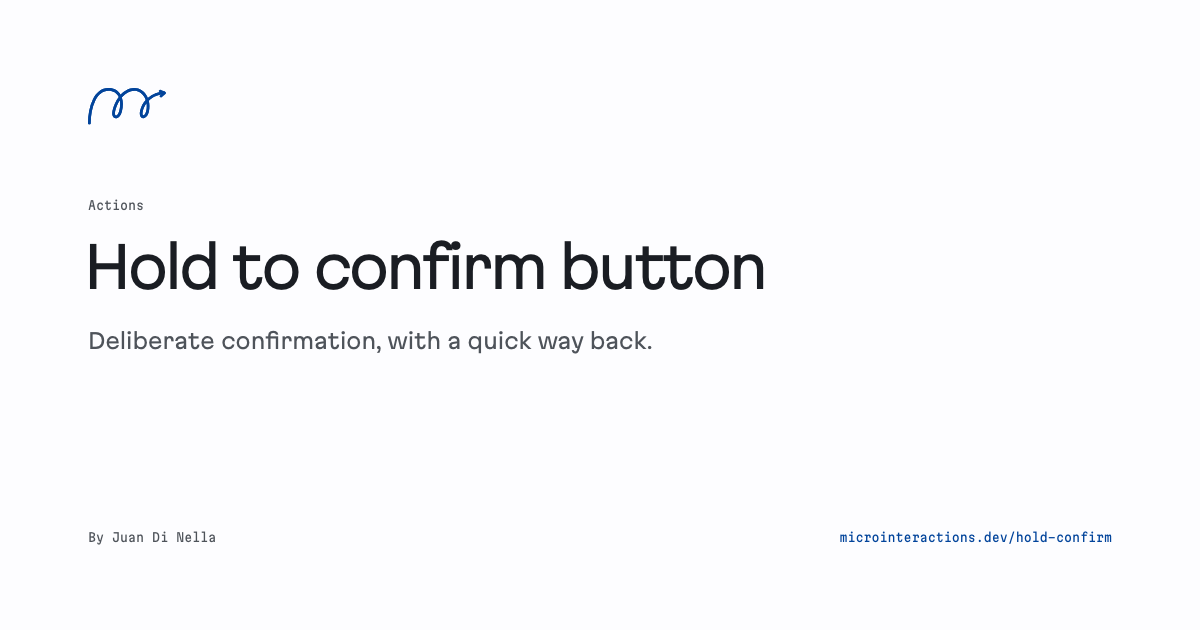
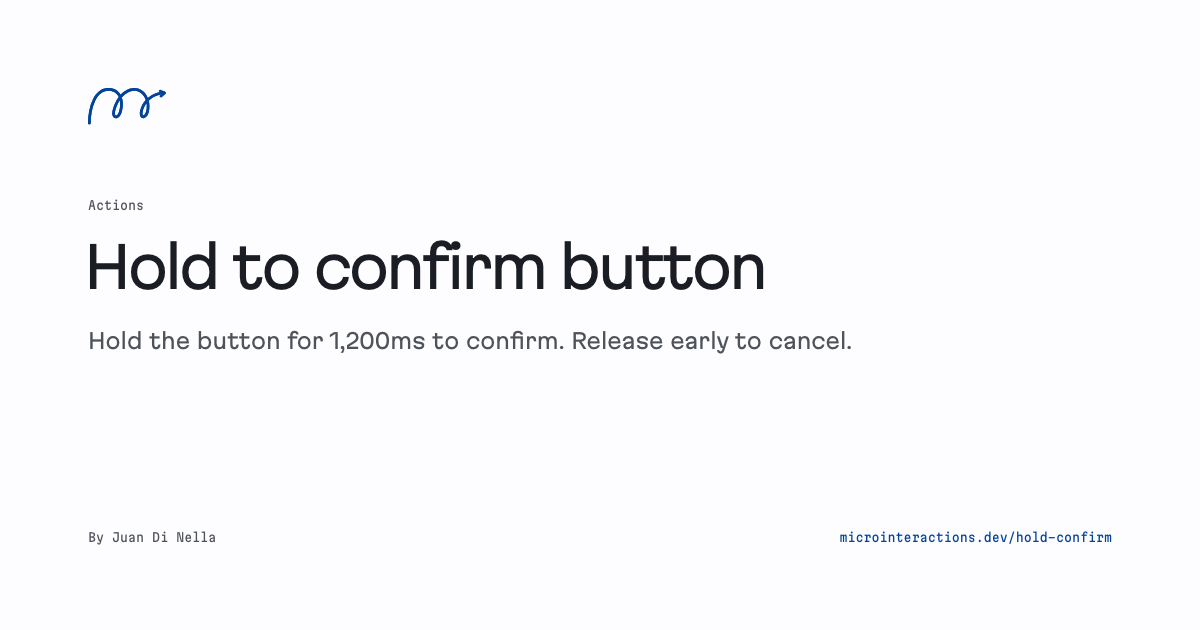
fix: expose shadcn installs in machine-readable docs
Keep registry installation discoverable alongside study source and clarify collection and hold-confirm summaries.

Changed region(s): [[0.0617, 0.5127, 0.7092, 0.573]]

diff --git a/tests/production.spec.ts b/tests/production.spec.ts
@@ -1,6 +1,8 @@
 import { expect, test } from '@playwright/test';
 import { execFileSync } from 'node:child_process';
 import { existsSync } from 'node:fs';
+import { collectionDescription } from '../src/data/collection';
+import { repository } from '../src/data/repository';
 import { specimens } from '../src/data/specimens';
 
 test('source formats and languages work without JavaScript', async ({ browser }) => {
@@ -157,6 +159,19 @@ test('Markdown content negotiation and complete Tailwind exports', () => {
   console.log(execFileSync(process.execPath, ['scripts/check-markdown.mjs', 'http://127.0.0.1:8791'], { encoding: 'utf8' }));
 });
 
+test('collection and hold summaries describe the behavior without JavaScript', async ({ browser, request }) => {
+  const context = await browser.newContext({ javaScriptEnabled: false });
+  const page = await context.newPage();
+  await page.goto('http://127.0.0.1:8791/');
+  await expect(page.locator('.intro .description')).toHaveText(`${collectionDescription} The site is open source on GitHub.`);
+  const markdown = await (await request.get('/markdown/index.md')).text();
+  expect(markdown).toContain(collectionDescription);
+  expect(markdown).toContain(`[on GitHub](${repository.url})`);
+  await page.goto('http://127.0.0.1:8791/hold-confirm/');
+  await expect(page.locator('.study-header .summary')).toHaveText('Hold the button for 1,200ms to confirm. Release early to cancel.');
+  await context.close();
+});
+
 test('content routes expose valid social images', async ({ page, request }) => {
   const covers: Record<string, string> = { '/': '/social-preview.png' };
   for (const id of ['text-swap', 'chevron-morph', 'hold-confirm', 'edge-aware-tooltip', 'plucked-underline', 'gooey-radio-group', 'drag-select', 'resize-handle', 'tab-indicator', 'worm-dots']) covers[`/${id}/`] = `/social/${id}.png`;
@@ -278,6 +293,30 @@ test('shadcn registry serves the index and installable items', async ({ request 
     expect(element.files[1].content).not.toContain('DOMContentLoaded');
   }
   expect(Object.keys((await (await request.get('/r/worm-dots.json')).json()).css)).toContain('@property --wd-dot');
+});
+
+test('agent documents expose the registry and every React install command', async ({ request }) => {
+  const { items } = await (await request.get('/r/registry.json')).json();
+  const registryUrl = 'https://microinteractions.dev/r/registry.json';
+  const llms = await (await request.get('/llms.txt')).text();
+  expect(llms).toContain(collectionDescription);
+  for (const path of ['/markdown/index.md', '/llms.txt', '/api.md', '/.well-known/agent-skills/microinteractions/SKILL.md']) {
+    const response = await request.get(path);
+    expect(response.status(), path).toBe(200);
+    expect(await response.text(), path).toContain(registryUrl);
+  }
+  await Promise.all(items.map(async ({ name }: { name: string }) => {
+    const url = `https://microinteractions.dev/r/${name}.json`;
+    expect(llms).toContain(`[React registry item](${url})`);
+    const fixed = await request.get(`/markdown/${name}.md`);
+    const negotiated = await request.get(`/${name}/`, { headers: { Accept: 'text/markdown' } });
+    expect(fixed.status(), name).toBe(200);
+    expect(negotiated.status(), name).toBe(200);
+    const markdown = await fixed.text();
+    expect(markdown, name).toContain(`## React component\n\nInstall the React component`);
+    expect(markdown, name).toContain(`\`\`\`sh\nnpx shadcn@latest add ${url}\n\`\`\``);
+    expect(await negotiated.text(), name).toBe(markdown);
+  }));
 });
 
 test('WebMCP tools list, read, and open studies', async ({ page }) => {

diff --git a/src/pages/markdown/[slug].md.ts b/src/pages/markdown/[slug].md.ts
@@ -1,8 +1,11 @@
 import type { APIRoute, GetStaticPaths } from 'astro';
 import { getCollection } from 'astro:content';
 import { author } from '../../data/author';
+import { collectionDescription } from '../../data/collection';
 import { previews } from '../../data/previews';
 import { buildPrompt } from '../../data/prompt';
+import { registryItems } from '../../data/registry';
+import { repository } from '../../data/repository';
 import { sourceFiles, tailwindSetupNote, tailwindSourceFiles } from '../../data/source';
 import { durationLabel, specimens } from '../../data/specimens';
 
@@ -18,11 +21,13 @@ function codeBlocks(files: { label: string; lang: string; code: string }[]) {
 }
 
 export const getStaticPaths = (async () => {
+  const site = import.meta.env.SITE;
   const studies = await getCollection('studies');
   const index = [
     '# Microinteractions',
-    'A collection of small UI experiments. I built these to explore how timing changes the way an interaction feels. Each experiment includes notes and source code.',
+    `${collectionDescription} The site is open source [on GitHub](${repository.url}).`,
     `A project by [${author.name}](${author.url}).`,
+    `For React projects, each study's Markdown includes its shadcn install command. [Browse the registry](${new URL('/r/registry.json', site).href}).`,
     ...specimens.map((specimen) => `## [${specimen.title}](/${specimen.id}/)\n\n${specimen.summary}\n\nCategory: ${specimen.category}. Trigger: ${specimen.triggerLabel}. Duration: ${durationLabel(specimen)}.`),
   ].join('\n\n');
 
@@ -32,6 +37,7 @@ export const getStaticPaths = (async () => {
       const study = studies.find((entry) => entry.id === specimen.id);
       if (!study?.body) throw new Error(`Missing study article: ${specimen.id}`);
       const preview = previews[specimen.id];
+      const registryItem = registryItems.find(({ name }) => name === specimen.id);
       const { prompt } = study.data;
       // Same order as the page: the prompt leads, then the code formats.
       const implementation = [
@@ -45,6 +51,11 @@ export const getStaticPaths = (async () => {
         specimen.summary,
         `Category: ${specimen.category}. Trigger: ${specimen.triggerLabel}. Duration: ${durationLabel(specimen)}. Easing: ${specimen.easingName}.`,
         ...(specimen.durationNote ? [specimen.durationNote] : []),
+        ...(registryItem ? [
+          '## React component',
+          'Install the React component into your project with shadcn. It uses your project\'s shadcn theme tokens.',
+          codeBlock('sh', `npx shadcn@latest add ${new URL(`/r/${registryItem.name}.json`, site).href}`),
+        ] : []),
         ...(study.data.observe ? [`## What to observe\n\n${study.data.observe}`] : []),
         study.body.replace('<Implementation specimen={props.specimenId} />', () => implementation),
         ...(study.data.references.length ? ['## References', study.data.references.map((reference) => `- [${reference.title}](${reference.url})${reference.author ? ` — ${reference.author}` : ''}`).join('\n')] : []),

diff --git a/src/lib/agent-skill.ts b/src/lib/agent-skill.ts
@@ -1,7 +1,7 @@
 import { durationLabel, specimens } from '../data/specimens';
 
 export const skillName = 'microinteractions';
-export const skillDescription = 'Implement and review small UI interactions using studied examples with exact timing, easing, accessibility notes, and copyable HTML, CSS, JavaScript, and Tailwind source.';
+export const skillDescription = 'Implement and review small UI interactions using studied examples with exact timing, easing, accessibility notes, copyable HTML, CSS, JavaScript, and Tailwind source, and React components installable with shadcn.';
 
 export const skillMarkdown = (site: URL | undefined) => `---
 name: ${skillName}
@@ -24,8 +24,8 @@ The full list with summaries is at ${new URL('/markdown/index.md', site).href}. 
 
 ## How to apply a study
 
-1. Fetch the study's Markdown. It contains the reasoning, the CSS implementation, and a Tailwind version when one exists.
-2. Copy the implementation, then adapt names and colors to the project. Keep the duration and easing unless the project has a documented reason to differ; the article explains what changes if you do.
+1. Fetch the study's Markdown. It contains the reasoning, the CSS implementation, a Tailwind version when one exists, and a shadcn install command for studies with a React port.
+2. For a React project with shadcn, run that install command. It installs the React component and any required custom-element script, using the project's shadcn theme tokens. The registry index at ${new URL('/r/registry.json', site).href} lists the available components. For other stacks, copy the HTML, CSS, and JavaScript implementation and adapt names and colors. Keep the duration and easing unless the project has a documented reason to differ; the article explains what changes if you do.
 3. Keep the keyboard, focus, and \`prefers-reduced-motion\` handling from the source. The interactions are designed to work without hover, animation, or color alone.
 4. Link the study in a code comment so the timing decisions stay traceable.
 `;

diff --git a/src/pages/llms.txt.ts b/src/pages/llms.txt.ts
@@ -1,15 +1,21 @@
 import type { APIRoute } from 'astro';
 import { author } from '../data/author';
+import { collectionDescription } from '../data/collection';
+import { registryItems } from '../data/registry';
 import { specimens } from '../data/specimens';
 
 export const prerender = true;
 
 export const GET: APIRoute = ({ site }) => new Response(`${[
   '# Microinteractions',
-  '> Studies of small UI interactions. Each one explains how timing and easing change the way the interaction feels, and includes complete HTML, CSS, JavaScript, and Tailwind source with keyboard and reduced-motion support.',
+  `> ${collectionDescription}`,
   `A project by [${author.name}](${author.url}). Every page also returns Markdown when requested with \`Accept: text/markdown\`.`,
+  `For React projects, use the shadcn install command in each study's Markdown. Components use your project's shadcn theme tokens. [Registry index](${new URL('/r/registry.json', site).href}).`,
   '## Studies',
-  specimens.map((specimen) => `- [${specimen.title}](${new URL(`/markdown/${specimen.id}.md`, site).href}): ${specimen.summary}`).join('\n'),
+  specimens.map((specimen) => {
+    const item = registryItems.find(({ name }) => name === specimen.id);
+    return `- [${specimen.title}](${new URL(`/markdown/${specimen.id}.md`, site).href}): ${specimen.summary}${item ? ` [React registry item](${new URL(`/r/${item.name}.json`, site).href}).` : ''}`;
+  }).join('\n'),
   '## Optional',
   [
     `- [Collection index](${new URL('/markdown/index.md', site).href}): all studies with category, trigger, and duration`,

diff --git a/src/pages/api.md.ts b/src/pages/api.md.ts
@@ -11,6 +11,8 @@ export const GET: APIRoute = ({ site }) => new Response(`${[
   `\`\`\`\ncurl -H 'Accept: text/markdown' ${new URL('/', site).href}\n\`\`\``,
   '## Fixed URLs',
   [`- \`${new URL('/markdown/index.md', site).href}\` — collection index`, ...specimens.map((specimen) => `- \`${new URL(`/markdown/${specimen.id}.md`, site).href}\` — ${specimen.title}`)].join('\n'),
+  '## React components',
+  `The [shadcn registry index](${new URL('/r/registry.json', site).href}) lists the installable React components. Each study's Markdown includes its install command when a React port is available. The CLI installs the component and any required custom-element script, using your project's shadcn theme tokens.`,
   '## In-browser tools (WebMCP)',
   'Every page registers these tools with `document.modelContext` for agents running in the browser:',
   '- `list_studies` — every study with category, trigger, duration, easing, and URLs\n- `get_study` — `{ id }`; the study as Markdown, including source\n- `open_study` — `{ id }`; navigates the tab to the live demo',

diff --git a/src/data/specimens.ts b/src/data/specimens.ts
@@ -159,7 +159,7 @@ export const specimens: Specimen[] = [
     published: '2026-09-29',
     title: 'Hold to confirm button',
     category: 'Actions',
-    summary: 'Deliberate confirmation, with a quick way back.',
+    summary: 'Hold the button for 1,200ms to confirm. Release early to cancel.',
     seoTitle: 'JavaScript hold-to-confirm button',
     seoDescription:
       'Build a hold-to-confirm button with a cancelable timer, keyboard support, and status feedback. Try the demo and learn how to connect a real action.',

diff --git a/src/data/collection.ts b/src/data/collection.ts
@@ -1,0 +1,1 @@
+export const collectionDescription = 'A collection of UI microinteractions with live demos, timing notes, and copyable HTML, CSS, JavaScript, and Tailwind code. React components install with shadcn.';
